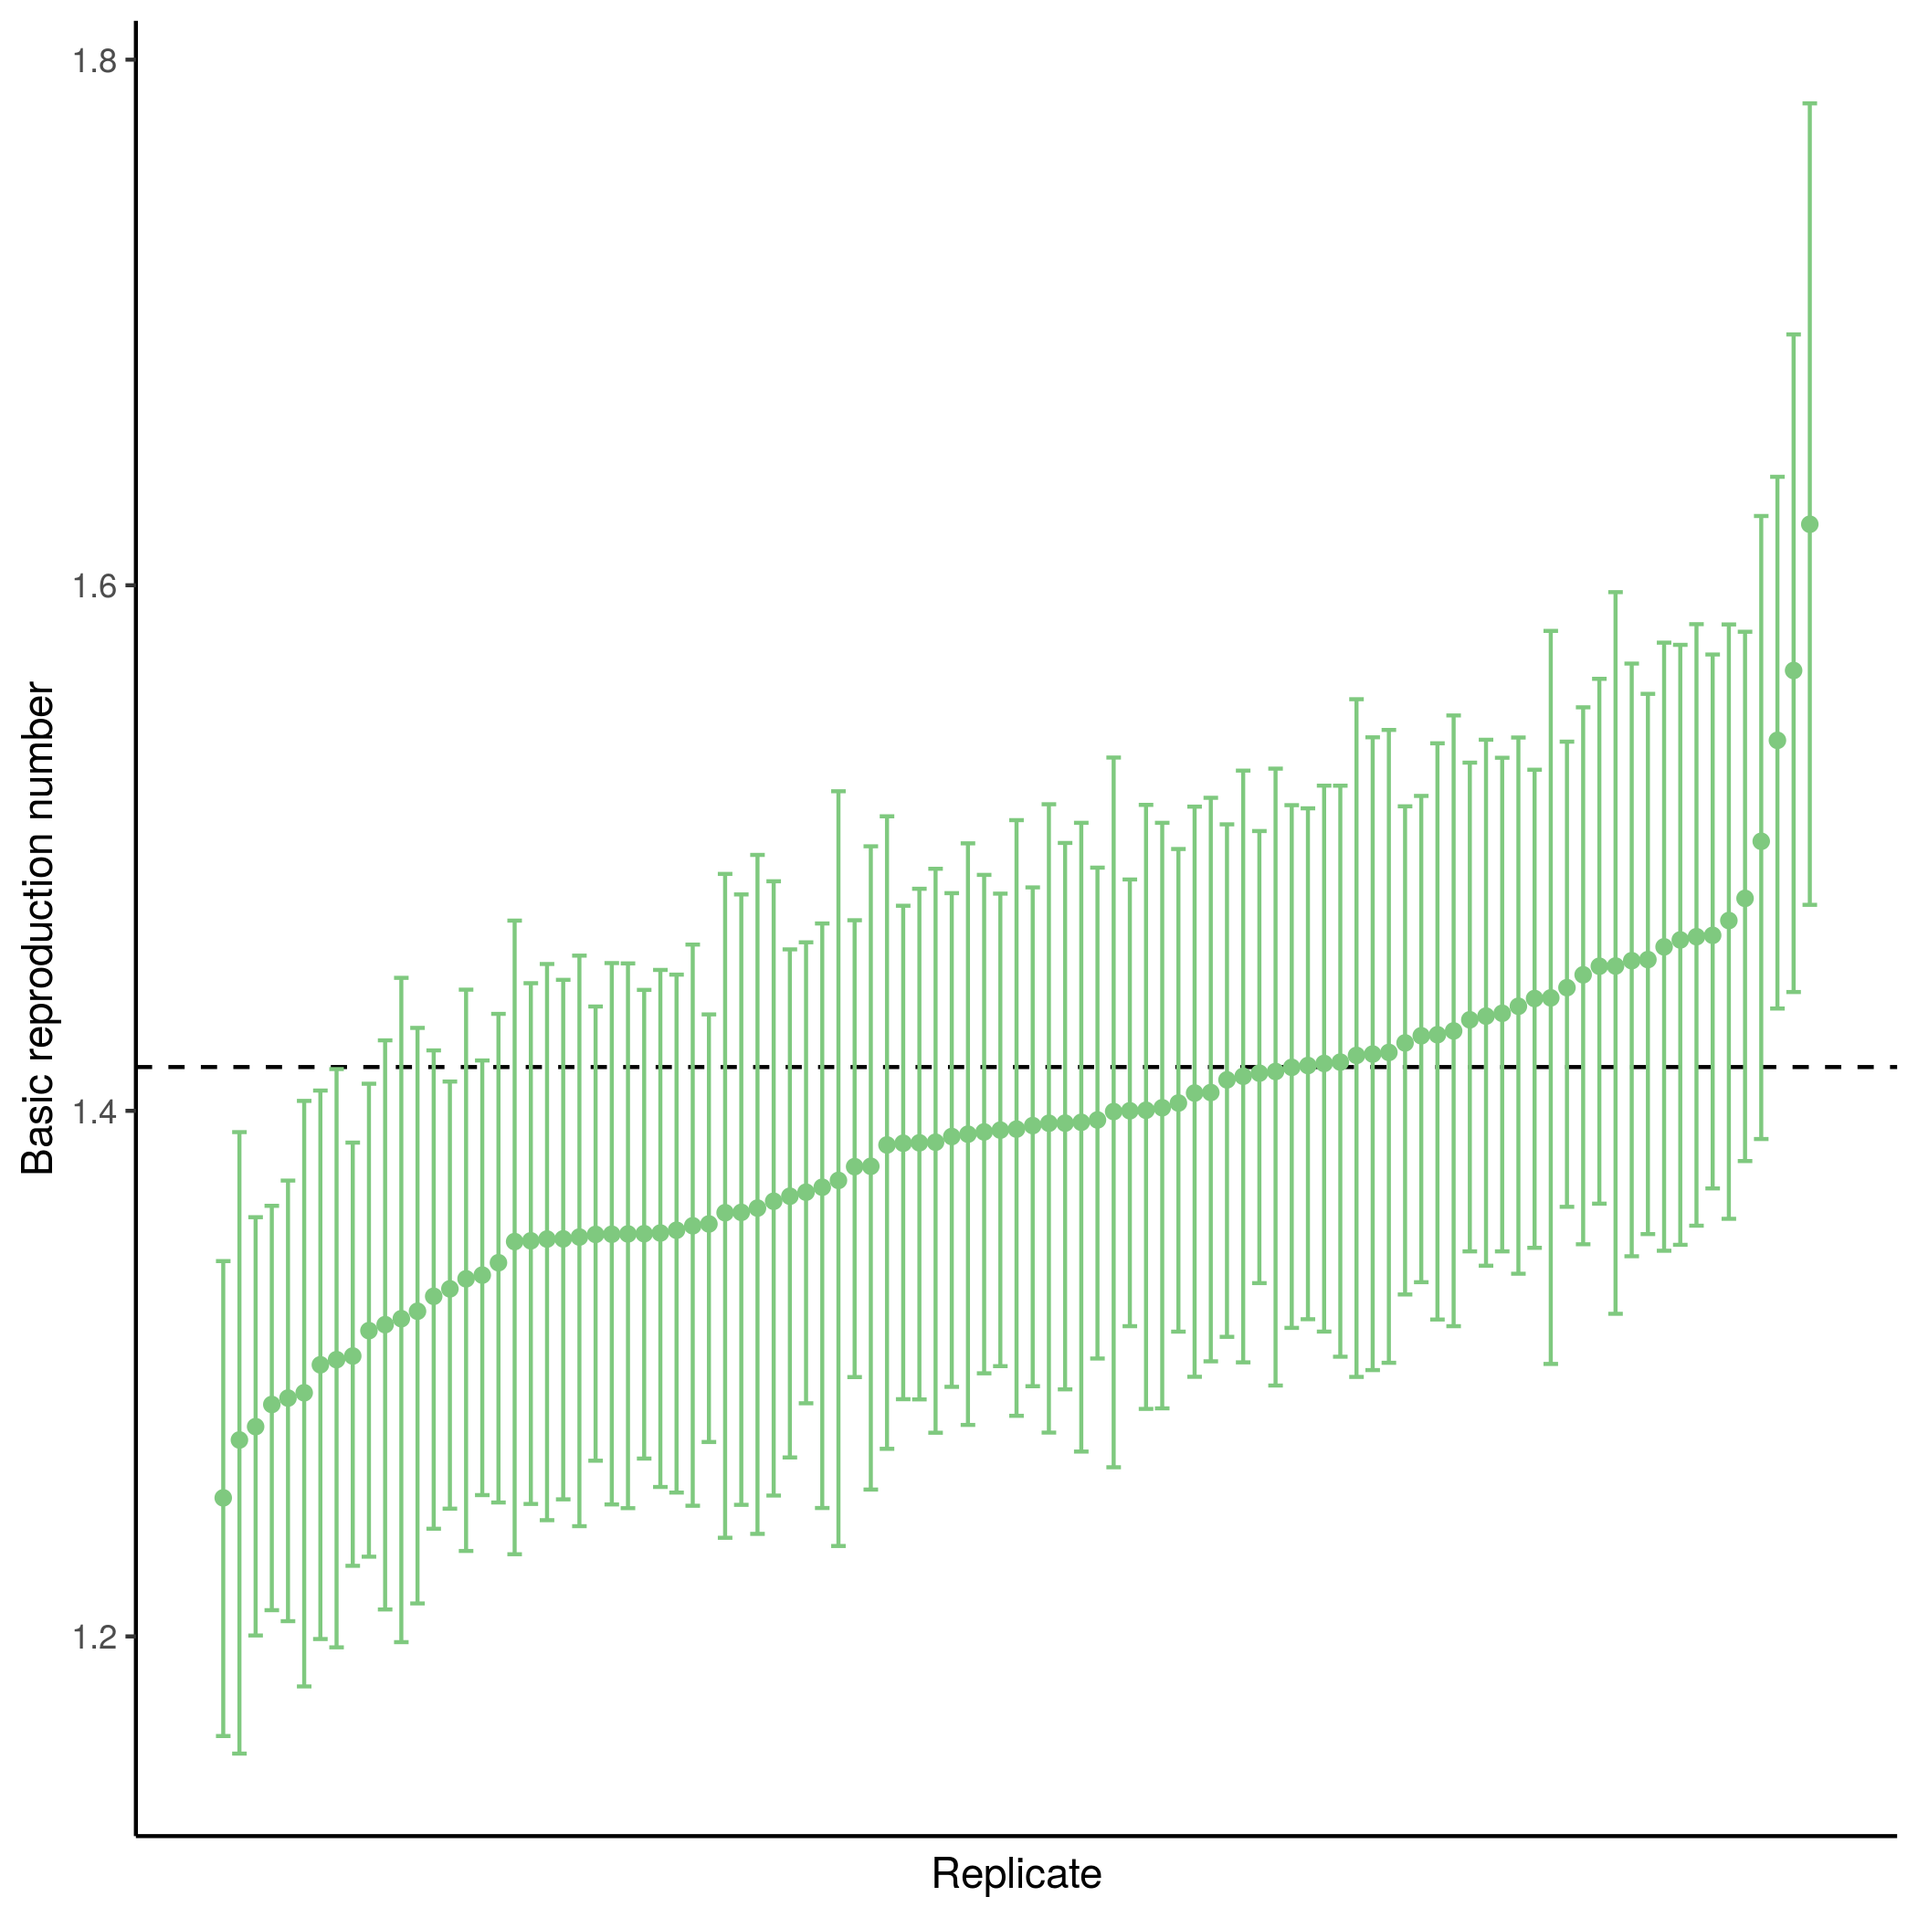
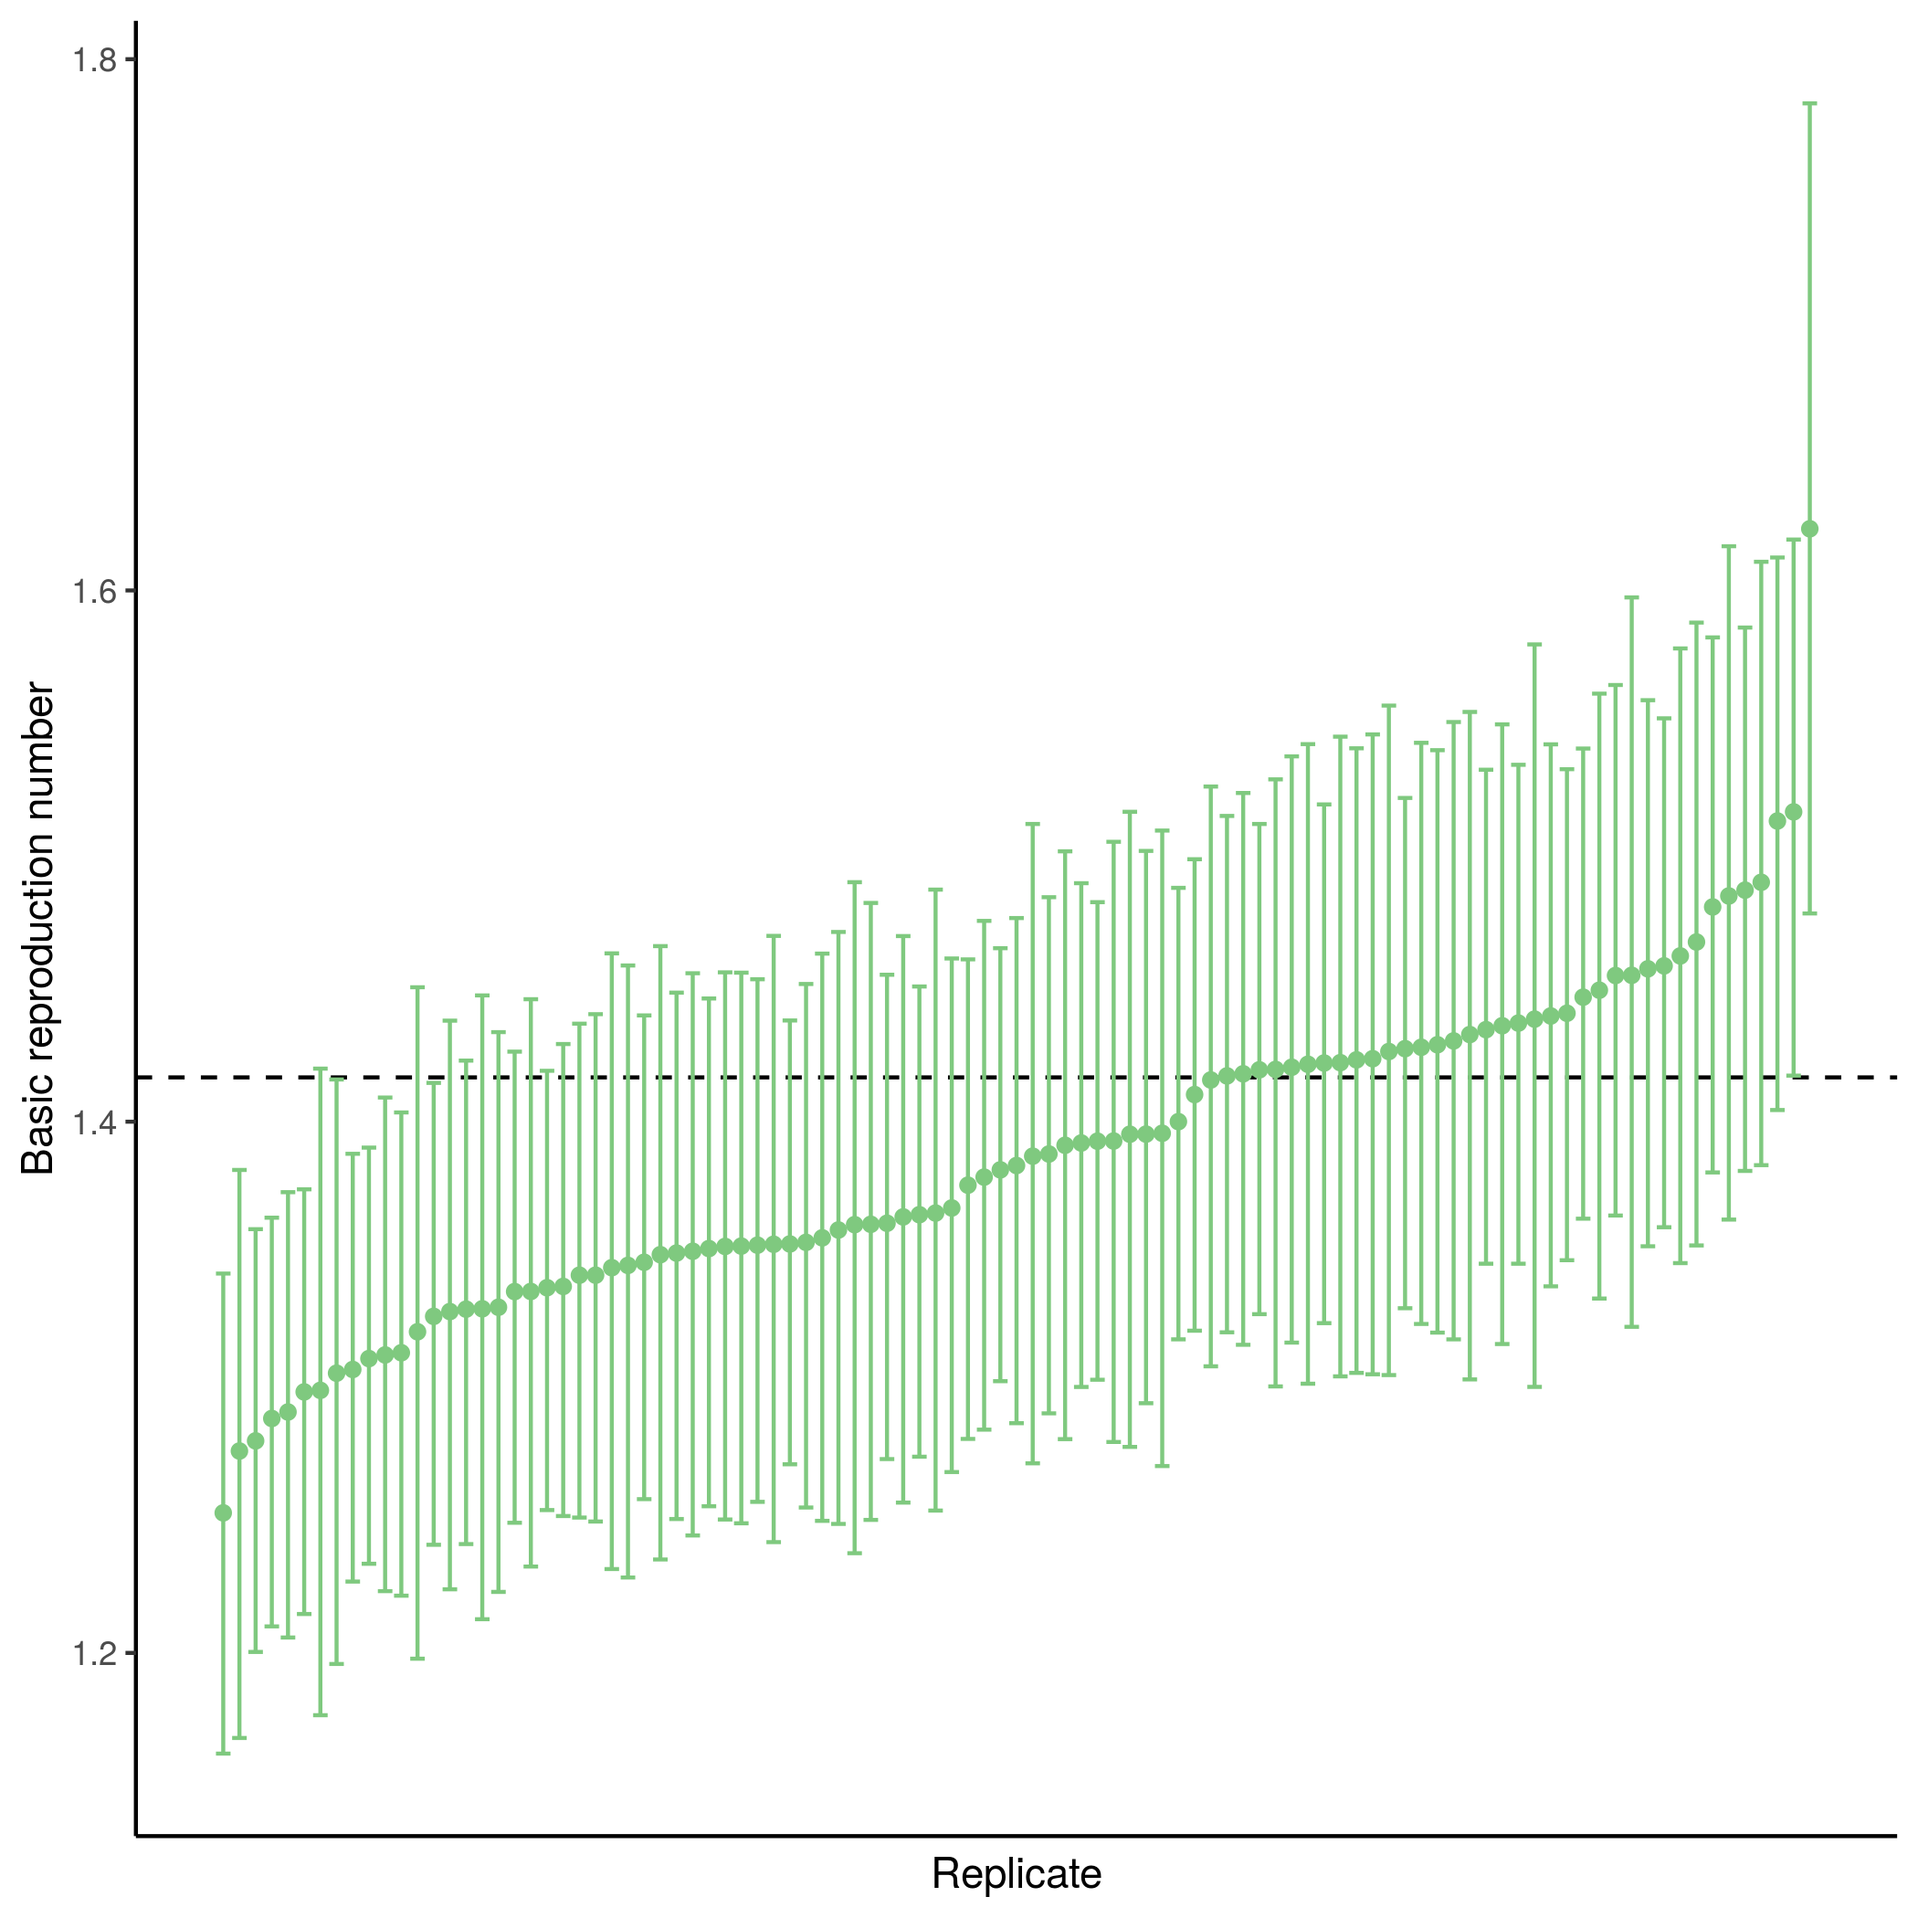
Ci deep dive (#44)
* condition the simulations against multiple origin times

* export some additional materials to aid in debugging

* documentation

* documentation

* update the runner script because 20 processes was too much

* filter out additional broken simulations from plots

* update figures

* lint plotting code

* documentation

* documentation again

diff --git a/ChangeLog.md b/ChangeLog.md
@@ -2,6 +2,10 @@
 
 ## 0.1.3.1
 
+- The application `simulation-study-aggregated-observations` now conditions the
+  simulations to avoid the LTT going back down to 1 after it has been larger
+  than 1 to avoid potential issues with multiple origin times, and that the MCMC
+  has been able to actually generate some output.
 - There is now another example `prevalence-ci-calibration` which looks at the
   coverage properties of the CI under the approximate likelihood.
 
